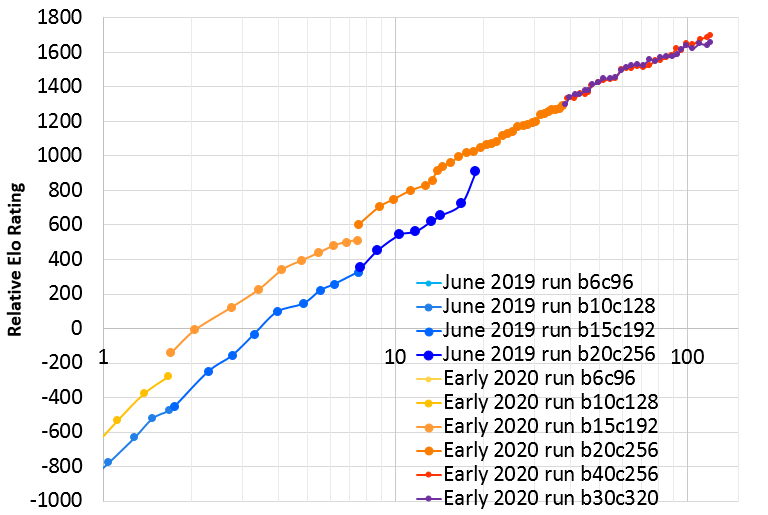
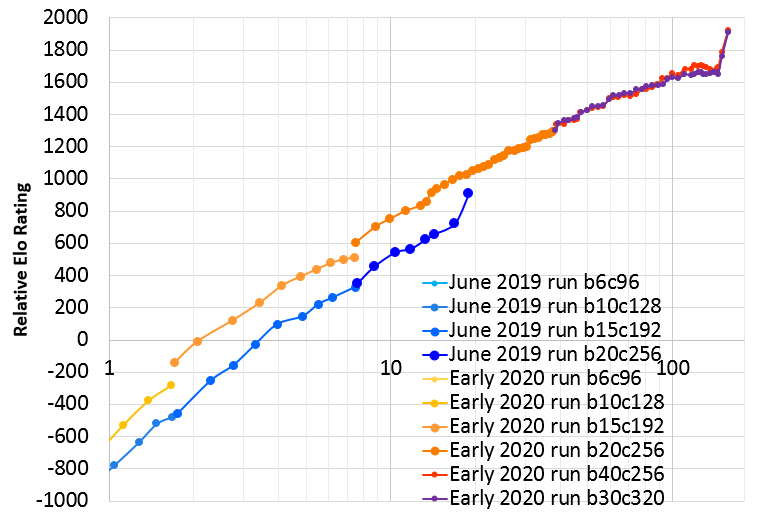
Update readme

Changed region(s): [[0.0, 0.0, 0.9688, 0.9942]]

diff --git a/README.md b/README.md
@@ -1,8 +1,10 @@
 # KataGo
 
-As of early/mid 2020, KataGo is one of the strongest open source Go bots available online, and on most common hardware should be moderately stronger than Leela Zero in most positions if tuned for performance. KataGo was trained using AlphaZero-like training with many modifications and enhancements that greatly improve the self-play learning, starting entirely from scratch with no outside data. Some of its enhancements take advantage of game-specific features and training targets, but also many of the techniques are general and could be applied in other games. Due to these enhancements, early training is immensely faster than in other zero-style bots - with only a few strong GPUs for a few days, even a single researcher/enthusiast should be able to train a neural net from nothing to high amateur dan strength on the full 19x19 board.
+As of early/mid 2020, KataGo is one of the strongest open source Go bots available online, and on most common hardware should be stronger than Leela Zero in most positions. KataGo was trained using AlphaZero-like training with many modifications and enhancements that greatly improve the self-play learning, starting entirely from scratch with no outside data. Some of its enhancements take advantage of game-specific features and training targets, but also many of the techniques are general and could be applied in other games. Due to these enhancements, early training is immensely faster than in other zero-style bots - with only a few strong GPUs for a few days, even a single researcher/enthusiast should be able to train a neural net from nothing to high amateur dan strength on the full 19x19 board.
 
-KataGo's latest run used about 29 GPUs, rather than thousands (like AlphaZero and ELF), first reached superhuman levels on that hardware in perhaps just three to six days, and reached strength similar to ELF in about 14 days. With minor adjustments and a few more GPUs, starting around 40 days it roughly began to match or surpass Leela Zero in some tests with different configurations, time controls, and hardware. And finally after about four months of training time, the current run may be wrapping up fairly soon, but we hope to be able to continue it or begin another run in the future.
+Experimentally, KataGo did also try some limited ways of using external data at the end of its June 2020 run. The results were mixed, and did not clearly appear to give any improvements in overall playing strength, which prior to that point had already surpassed that of other known open-source bots at the time.
+
+KataGo's latest run used about 28 GPUs, rather than thousands (like AlphaZero and ELF), first reached superhuman levels on that hardware in perhaps just three to six days, and reached strength similar to ELF in about 14 days. With minor adjustments and some more GPUs, starting around 40 days it roughly began to match surpass Leela Zero in some tests with different configurations, time controls, and hardware. The run continued for a total of about five months of training time, reaching several hundred Elo stronger than Leela Zero and likely other open-source bots. The run has ended for now, but we hope to be able to continue it or begin another run in the future!
 
 Paper about the major new ideas and techniques used in KataGo: [Accelerating Self-Play Learning in Go (arXiv)](https://arxiv.org/abs/1902.10565).
 A few further improvements have been found and incorporated into the latest run that are not described in this paper - some post about this might happen eventually.
@@ -21,20 +23,22 @@ KataGo's engine also aims to be a useful tool for Go players and developers, and
 
 ## Current Status and History
 
-KataGo is on its third major official run! As of May 2020 after about 4 months of actual training time, it appears to be overall moderately stronger than Leela Zero's final official 40-block nets at moderate numbers of playouts (thousands to low tens of thousands), including with only its 20-block net, except for one notable opening pattern that Leela Zero still handles much better. Earlier, it also surpassed the prior 19-day official run from June 2019 in only about 12-14 days, and at this point is more than 700 Elo stronger. This is due to various training improvements which were not present in prior runs. In addition to reaching stronger faster, this third run adds support for Japanese rules, stronger handicap play, and more accurate score estimation.
+KataGo has completed its third major official run! Running from December 2019 to June 2020 using about total 5 months of time (KataGo did not run entirely continuously during that time), it appears to be signficantly stronger than Leela Zero's final official 40-block nets at moderate numbers of playouts (thousands to low tens of thousands), including with only its 20-block net. Earlier, it also surpassed the prior 19-day official run from June 2019 in only about 12-14 days, and by the end reached more than 700 Elo stronger. This is due to various training improvements which were not present in prior runs. In addition to reaching stronger faster, this third run adds support for Japanese rules, stronger handicap play, and more accurate score estimation.
 
-Strong networks are available for download! See the [releases page](https://github.com/lightvector/KataGo/releases) for the latest release and these neural nets. A history of older and alternative neural nets can be found [here](https://d3dndmfyhecmj0.cloudfront.net/g170/index.html), including a few *very* strong smaller nets. These include a fast 10-block network that nearly matches the strength of many earlier 15 block nets, including KataGo best 15-block net from last year and Leela Zero's LZ150. This new run also features a very strong 15-block network that should be approximately the strength of ELFv2, a 20-block network, at least at low thousands of playouts. Hopefully they are useful for users with weaker hardware.
+Strong networks are available for download! See the [releases page](https://github.com/lightvector/KataGo/releases) for the latest release and these neural nets. A history of older and alternative neural nets can be found [here](https://d3dndmfyhecmj0.cloudfront.net/g170/index.html), including a few *very* strong smaller nets. These include a fast 10-block network that nearly matches the strength of many earlier 15 block nets, including KataGo best 15-block net from last year and Leela Zero's LZ150. This new run also features a very strong 15-block network that should be approximately the strength of ELFv2, a 20-block network, at least at low thousands of playouts. They may be useful for users with weaker hardware. However, KataGo's latest 20-block network is so vastly much stronger than the 15-block net (perhaps 500-800 Elo at equal playouts!) that even on fairly weak hardware it likely dominates the 15-block net even taking into account how much slower it runs. 
 
-Here is a graph of the improvement so far as of about 120 days:
+Here is a graph of the improvement so over the course of the 157 training days of the run:
 
 <table class="image">
 <tr><td><img src="https://raw.githubusercontent.com/lightvector/KataGo/master/images/readme/jan2020vsjune2019.png" height="350"/></td></tr>
-<tr><td><sub>X axis is days of training, log scale. (note: hardware is about the same but not entirely identical). Y axis is relative Elo rating based on some 1200-visit test matches. The abrupt jump at the end of the June 2019 run is due to a LR drop in that run that the current run applied in a more gradual way.</sub></tr></td>
+<tr><td><sub>X axis is days of training, log scale. (note: hardware is not entirely consistent during this time but most of the time was 44 V100 GPUs). Y axis is relative Elo rating based on some 1200-visit test matches. The abrupt jumps at the ends of each run are due to learning rate drops at the ends of those runs. The instability just before that in the June 2020 run is due to the last 40 days of that run being used to play with experimental changes, not all of which were improvements. 117 days is the last "clean" point prior to these changes.</sub></tr></td>
 </table>
 
-Currently the run is using about 47 GPUs (40 of which are for self-play data generation). Only 29 GPUs were used to surpass last year's run in the first 14 days. After 14 days this was increased to 37 GPUs, then after 24 more days increased again to the current 47 GPUs.
+The first 117 days of the run were clean and adhered to "semi-zero" standards. In particular, game-specific input features and auxiliary training targets were used, most of which are described in KataGo's [paper](https://arxiv.org/abs/1902.10565). However there was no use of outside data nor any special heuristics or expert logic encoded into the search for biasing or selecting moves, beyond some minor optimizations to end finished games a little faster. Only minimal adjustments were made to the ongoing training, via high-level hyperparameters (e.g. decaying the learning rate, the schedule for enlarging the neural net, etc). The last 40 days of the run then began to experiment with some limited ways of using external data to see the effects.
 
-Just for fun, here's a table of the Elo strength of selected versions, based on a few tens of thousands of games between these and other versions in a pool (1200 visits). These are based on fixed search tree size, NOT fixed computation time. Current run:
+The run used about 46 GPUs for most of its duration. Of these, 40 were for self-play data generation, and up to 4 for training the main neural nets for the run, and 2 for gating games. Only 28 GPUs were used to surpass last year's run in the first 14 days. For days 14 to 38 this was increased to 36 GPUs, then from day 38 onward increased again to the current 46 GPUs, which was the number used for the rest of the run. One extra 47th GPU was used sometimes during the experimental changes in the last 40 days. Additionally, at times up to 3 more GPUs were used for training some extra networks such as extended smaller networks for end-users with weaker hardware, but these played no role in the run proper.
+
+Just for fun, are tables of the Elo strength of selected versions, based on a few tens of thousands of games between these and other versions in a pool (1200 visits). These are based on fixed search tree size, NOT fixed computation time. For the first 117 days:
 
 | Neural Net | Note | Approx Days Selfplay | Elo |
 |-------------|-------|---------------|------|
@@ -65,8 +69,33 @@ Just for fun, here's a table of the Elo strength of selected versions, based on 
 | g170-b30c320x2-s3530176512-d968463914  | (30 block more channels)  | 117  | 1643 |
 | g170-b40c256x2-s3708042240-d967973220  | (40 block less channels)  | 117  | 1687 |
 
+Neural nets following some of the more experimental training changes in the last 40 days, where various changes to the training involving external data were tried, with mixed results:
 
-And for comparison to the old 2019 June official run (Elos computed within the same pool):
+| Neural Net | Note | Approx Days Selfplay | Elo |
+|-------------|-------|---------------|------|
+| g170-b30c320x2-s3910534144-d1045712926  | (30 block more channels)  | 129 |     1651 |
+| g170-b40c256x2-s4120339456-d1045882697  | (40 block less channels)  | 129 |   1698 |
+| g170e-b20c256x2-s4667204096-d1045479207 | (extended training 20 block) | 129 |     1561 |
+| g170-b30c320x2-s4141693952-d1091071549  | (30 block more channels)  | 136.5 |   1653 |
+| g170-b40c256x2-s4368856832-d1091190099  | (40 block less channels)  | 136.5 |   1680 |
+| g170e-b20c256x2-s4842585088-d1091433838 | (extended training 20 block) | 136.5 |     1547 |
+| g170-b30c320x2-s4432082944-d1149895217  | (30 block more channels)  | 145.5 |   1648 |
+| g170-b40c256x2-s4679779328-d1149909226  | (40 block less channels)  | 145.5  |  1690 |
+| g170e-b20c256x2-s5055114240-d1149032340 | (extended training 20 block) | 145.5 |     1539 |
+
+Neural nets resulting from final learning rate drops. Some of the experimental uses of external data were continued here, but the large gains are most definitely due to learning rate drops rather than those uses:
+
+| Neural Net | Note | Approx Days Selfplay | Elo |
+|-------------|-------|---------------|------|
+| g170-b30c320x2-s4574191104-d1178681586  | (learning rate drop by 3.5x)  | 150 |   1759   |
+| g170-b40c256x2-s4833666560-d1179059206  | (learning rate drop by 3.5x)  | 150 |   1788 |
+| g170e-b20c256x2-s5132547840-d1177695086 | (learning rate drop by 2x) | 150 |     1577 |
+| g170-b30c320x2-s4824661760-d122953669   | (learning rate drop by another 2x)  | 157 |   1908 |
+| g170-b40c256x2-s5095420928-d1229425124  | (learning rate drop by another 2x)  | 157 |   1919 |
+| g170e-b20c256x2-s5303129600-d1228401921 | (learning rate drop by another 2x) | 157 |    1645 |
+
+
+And for comparison to the old 2019 June official run: (these Elos are directly measured rather than inferred, as these older networks competed directly pool of test games):
 
 | Neural Net | Note | Approx Days Selfplay |  Elo |
 |-------------|-------|---------------|------|
@@ -75,11 +104,19 @@ And for comparison to the old 2019 June official run (Elos computed within the s
 | g104-b15c192-s297383936-d140330251  | (last selfplay 15 block)    |  7.5 |    327 |
 | g104-b20c256-s447913472-d241840887  | (last selfplay 20 block)   |  19 |    908 |
 
+### Comparisons to Other Bots
+
+For some tests versus Leela Zero and ELF, see https://github.com/lightvector/KataGo/issues/254, as well as #test-results in https://discord.gg/bqkZAz3 and various casual tests run by various users in https://lifein19x19.com/viewtopic.php?f=18&t=17195 and https://lifein19x19.com/viewtopic.php?f=18&t=17474 at various points in KataGo's progression. See also the [paper](https://arxiv.org/abs/1902.10565) for test results regarding KataGo's June 2019 run ("g104") against some opponents - but also note that KataGo's June 2019 run learned somewhere between 1.5x and 2x less efficiently than more recent and much better June 2020 run ("g170").
+
+Based on some of these tests, although most of these used all different parameters and match conditions and hardware, *if one were to try to put Leela Zero on the same Elo scale as in the above tables, one could maybe guess LZ272 to be very roughly somewhere between 1200 and 1400 Elo*. But note also that the above Elos, due to being computed primarly by match games with earlier networks in the same run (although selected with high variety to avoid "rock-paper-scissors" issues) are likely to *not* be fully linear/transitive to other bots. Or even to other KataGo networks, particularly for larger differences. For example, it would not be surprising if one were to take two networks that were a large 400 Elo apart, and discover that in a direct test that the stronger one did not win quite precisely win 10 games per 1 lost game as the Elo model would predict.
+
+On 9x9 (KataGo's same networks can handle all common board sizes), KataGo topped the CGOS ladder in May 2020 using one V100 GPU, [playing more than 100 games](http://www.yss-aya.com/cgos/9x9/cross/katab40s37-awsp3.html) against other top bots including many specially-trained 9x9 bots, as well as many games against moderately weaker 9x9 bots. Against the strongest several opponents, it won close to half of these games, while losing only a single time ever (the rest of the games were draws). An [alternate version](http://www.yss-aya.com/cgos/9x9/cross/katab40s37-pda1.html) configured to be more aggressive and/or even to deliberately overplay won more than half of its games against the strongest opponents, seemingly drawing less often at the cost of losing a few additional games.
+
 ### Older Runs
 
-The first serious run of KataGo ran for 7 days in February 2019 on up to 35xV100 GPUs. This is the run featured the [early versions](https://arxiv.org/abs/1902.10565v2) of KataGo's research paper. It achieved close to LZ130 strength before it was halted, or up to just barely superhuman.
+The first serious run of KataGo ran for 7 days in February 2019 on up to 35 V100 GPUs. This is the run featured the [early versions](https://arxiv.org/abs/1902.10565v2) of KataGo's research paper. It achieved close to LZ130 strength before it was halted, or up to just barely superhuman.
 
-Following some further improvements and much-improved hyperparameters, KataGo performed a second serious run in May-June a max of 28xV100 GPUs, surpassing the February run after just three and a half days. The run was halted after 19 days, with the final 20-block networks reaching a final strength slightly stronger than LZ-ELFv2! (This is Facebook's very strong 20-block ELF network, running on Leela Zero's search architecture). Comparing to the yet larger Leela Zero 40-block networks, KataGo's network falls somewhere around LZ200 at visit parity, despite only itself being 20 blocks. [Recent versions](https://arxiv.org/abs/1902.10565) of the paper have been updated to reflect this run. Here is a graph of Elo ratings of KataGo's June run compared to Leela Zero and ELF based on a set of test games, where the X axis is an approximate measure of self-play computation required (note: log scale).
+Following some further improvements and much-improved hyperparameters, KataGo performed a second serious run in May-June 2019 with a max of 28 V100 GPUs, surpassing the February run after just three and a half days. The run was halted after 19 days, with the final 20-block networks reaching a final strength slightly stronger than LZ-ELFv2! (This is Facebook's very strong 20-block ELF network, running on Leela Zero's search architecture). Comparing to the yet larger Leela Zero 40-block networks, KataGo's network falls somewhere around LZ200 at visit parity, despite only itself being 20 blocks. [Recent versions](https://arxiv.org/abs/1902.10565) of the paper have been updated to reflect this run. Here is a graph of Elo ratings of KataGo's June run compared to Leela Zero and ELF based on a set of test games, where the X axis is an approximate measure of self-play computation required (note: log scale).
 
 <table class="image">
 <tr><td><img src="https://raw.githubusercontent.com/lightvector/KataGo/master/images/readme/katajunevslz.png" height="350"/></td></tr>
@@ -102,7 +139,7 @@ You can download a few selected neural nets from the [releases page](https://git
 ## Setting Up and Running KataGo
 KataGo implements just a GTP engine - GTP is a simple text protocol that Go software uses to communicate with engines. It does NOT have a graphical interface on its own. So generally, you will want to use KataGo along with a GUI or analysis program, such as [Lizzie](https://github.com/featurecat/lizzie) or [Sabaki](https://sabaki.yichuanshen.de/). Both of these programs also support KataGo's score estimates and visualization as well.
 
-**Warning: the version of KataGo packaged directly with Lizzie is fairly OLD. The net is quite weak compared to the latest nets, and the executable may not support the latest models or features. Download a newer version of both the net and executable from the [releases page](https://github.com/lightvector/KataGo/releases).**
+**Warning: the version of KataGo packaged directly with Lizzie is not the newest. The net in the 0.7.3 release is good, but not the strongest, and as KataGo updates in the future, more features may be added that aren't supported by the Lizzie-packaged versoin. Download a newer version of both the net and executable from the [releases page](https://github.com/lightvector/KataGo/releases).**
 
 ### Windows and Linux
 
